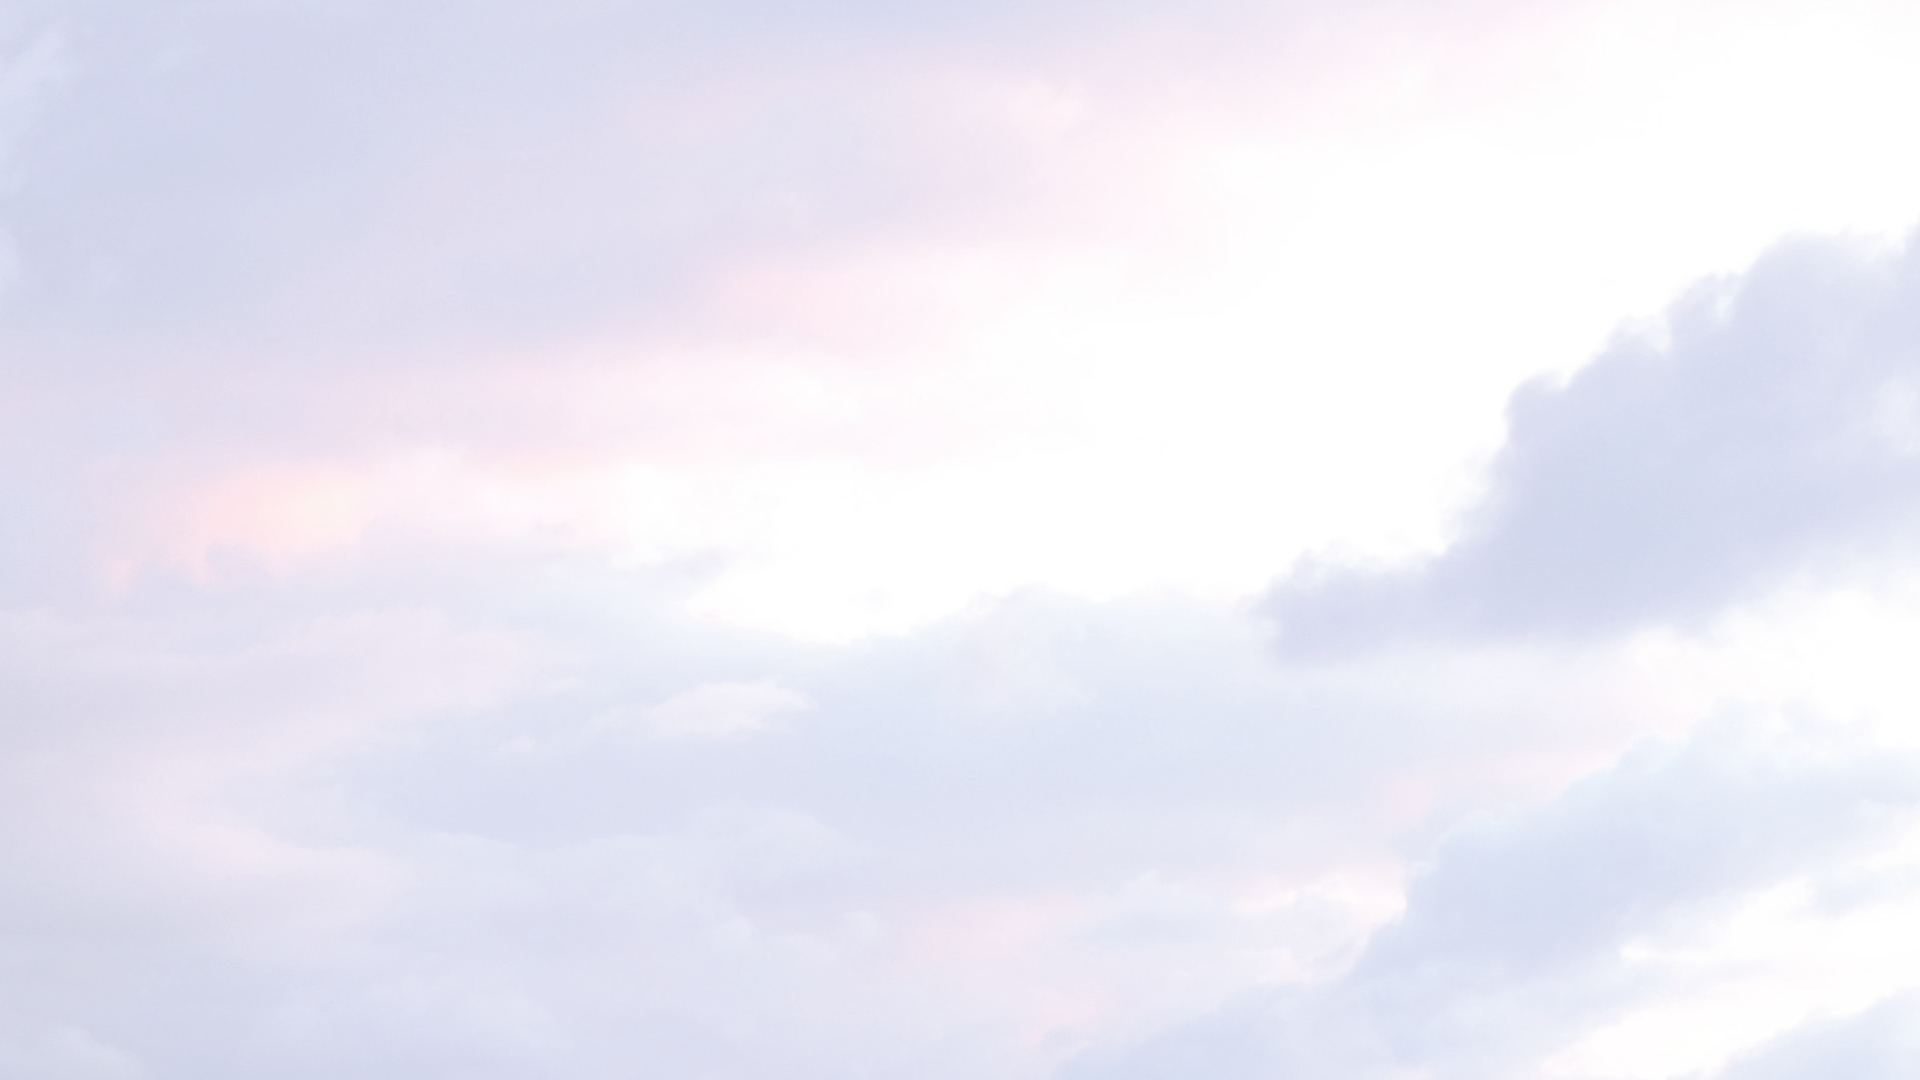
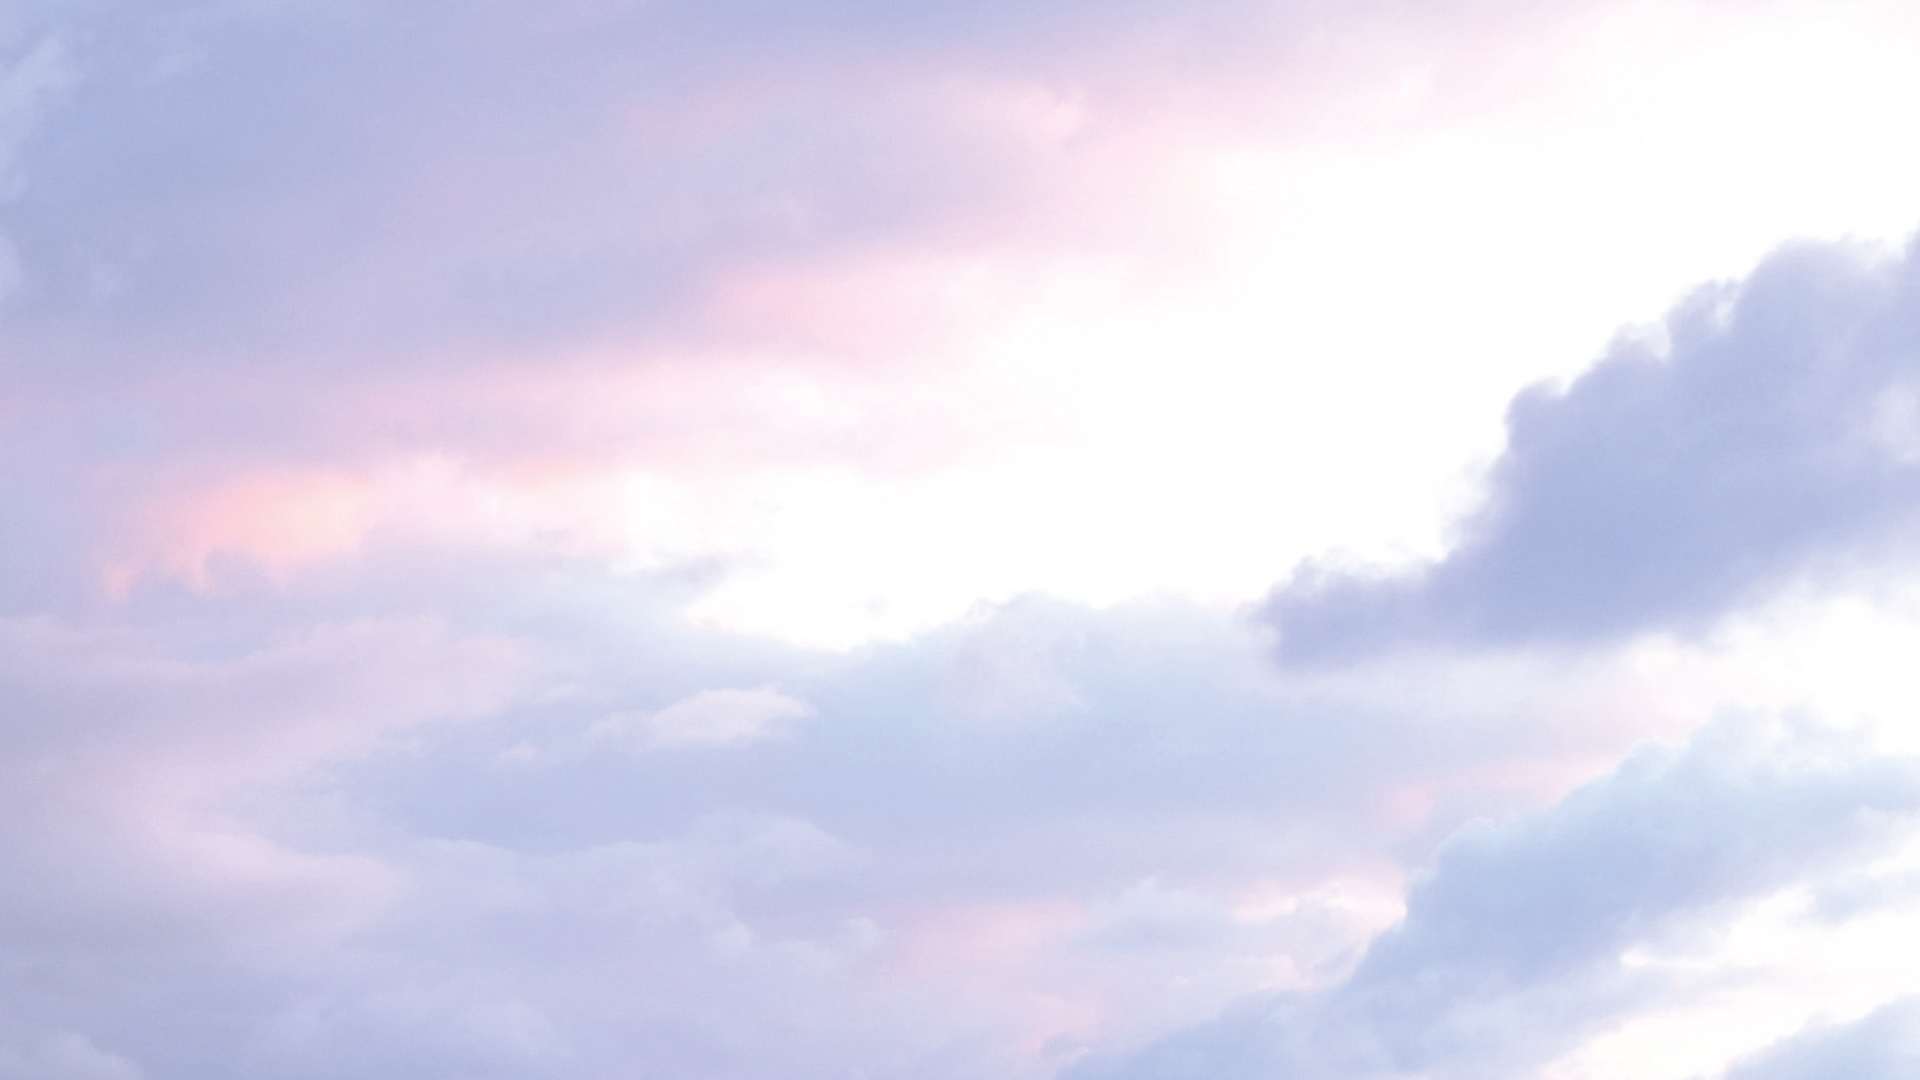
feat: make all pages' background responsive

diff --git a/assets/css/main.css b/assets/css/main.css
@@ -40,19 +40,19 @@
 }
 
 .fond_clair_logo_1920_1080 {
-    height: 27.75rem;
-    background-image: url("/assets/img/fond_clair_logo_2218_1080.jpg");   /* Emplacement de l'image */ 
-    background-size: contain; 
-    background-repeat: round;
-    overflow: hidden;
+  background: url("/assets/img/fond_clair_logo_2218_1080.jpg") no-repeat top left fixed;
+  -webkit-background-size: cover;
+  -moz-background-size: cover;
+  -o-background-size: cover;
+  background-size: cover;
 }
 
 .fond_clair_pages_suivantes_1920_1080 {
-    height: 27.75rem;
-    background-image: url("/assets/img/fond_clair_pages_suivantes_1920_1080.jpg");   /* Emplacement de l'image */ 
-    background-size: contain; 
-    background-repeat: round;
-    overflow: hidden;
+  background: url("/assets/img/fond_clair_pages_suivantes_1920_1080.jpg") no-repeat top left fixed;
+  -webkit-background-size: cover;
+  -moz-background-size: cover;
+  -o-background-size: cover;
+  background-size: cover;
 }
 
 .bg-dark { background-color: #514ea1 !important; }

diff --git a/enseignants/index.html b/enseignants/index.html
@@ -44,10 +44,9 @@
 
 </style>
 </head>
-<body>
+<body class="fond_clair_logo_1920_1080">
 <div id="wrapper">
  <div class="fixed-top">
-  <div class="fond_clair_logo_1920_1080">  
   
     <!--  début du menu  -->
   
@@ -268,7 +267,6 @@ Formée au RYE (Recherche Yoga dans l’éducation), elle anime aussi des atelie
         </div>     <!--  conteneur jours  9 colonnes droites --> 
       </div>     <!--  row -->
     </div>     <!--  FIN conteneur COURS  -->
-  </div>       <!--  image de fond -->  
     
   <footer class="site-footer h-card">
     <data class="u-url" href="/"></data>

diff --git a/stages/index.html b/stages/index.html
@@ -38,10 +38,9 @@
 }   
   </style>
 </head> 
-<body>
+<body class="fond_clair_pages_suivantes_1920_1080">
 <div id="wrapper">
  <div class="fixed-top">
-  <div class="fond_clair_pages_suivantes_1920_1080">
   
     <!--  début du menu  -->
   
@@ -470,7 +469,6 @@
         </div>   <!--  Col 11 colonnes  -->
       </div>     <!--  Row stages -->
     </div>     <!--  FIN conteneur-fluid  -->
-  </div>     <!--  image de fond -->
     
   <footer class="site-footer h-card">
     <data class="u-url" href="/"></data>

diff --git a/cours/contenu.html b/cours/contenu.html
@@ -41,10 +41,9 @@
 }   
   </style>
 </head> 
-<body>
+<body class="fond_clair_logo_1920_1080">
 <div id="wrapper">
  <div class="fixed-top">
-  <div class="fond_clair_logo_1920_1080">  
   
     <!--  début du menu  -->
   
@@ -328,7 +327,6 @@
         </div>     <!--  conteneur jours  9 colonnes droites --> 
       </div>     <!--  row -->
     </div>     <!--  FIN conteneur COURS  -->
-  </div>       <!--  image de fond -->  
     
   <footer class="site-footer h-card">
     <data class="u-url" href="/"></data>

diff --git a/autres/index.html b/autres/index.html
@@ -44,10 +44,9 @@
 </style>
 
 </head>
-<body>
+<body class="fond_clair_logo_1920_1080">
 <div id="wrapper">
  <div class="fixed-top">
-  <div class="fond_clair_logo_1920_1080">  
   
     <!--  début du menu  -->
   
@@ -1380,7 +1379,6 @@
         </div>     <!--  conteneur jours  9 colonnes droites --> 
       </div>     <!--  row -->
     </div>     <!--  FIN conteneur COURS  -->
-  </div>       <!--  image de fond -->  
     
   <footer class="site-footer h-card">
     <data class="u-url" href="/"></data>

diff --git a/autres/ordre_auteurs.html b/autres/ordre_auteurs.html
@@ -44,10 +44,9 @@
 </style>
 
 </head>
-<body>
+<body class="fond_clair_logo_1920_1080">
 <div id="wrapper">
  <div class="fixed-top">
-  <div class="fond_clair_logo_1920_1080">  
   
     <!--  début du menu  -->
   
@@ -1434,7 +1433,6 @@
         </div>     <!--  conteneur jours  9 colonnes droites --> 
       </div>     <!--  row -->
     </div>     <!--  FIN conteneur COURS  -->
-  </div>       <!--  image de fond -->  
     
   <footer class="site-footer h-card">
     <data class="u-url" href="/"></data>

diff --git a/cours/plans_acces_grenoble.html b/cours/plans_acces_grenoble.html
@@ -33,10 +33,9 @@
 }
 </style>
 </head>
-<body>
+<body class="fond_clair_logo_1920_1080">
 <div id="wrapper">
  <div class="fixed-top">
-  <div class="fond_clair_logo_1920_1080">  
   
     <!--  début du menu  -->
   
@@ -115,7 +114,6 @@
         </div>     <!--  conteneur jours  9 colonnes droites --> 
       </div>     <!--  row -->
     </div>     <!--  FIN conteneur COURS  -->
-  </div>       <!--  image de fond -->  
     
   <footer class="site-footer h-card">
     <data class="u-url" href="/"></data>

diff --git a/contacts/index.html b/contacts/index.html
@@ -60,10 +60,9 @@
 
 </style>
 </head>
-<body>
+<body class="fond_clair_logo_1920_1080">
 <div id="wrapper">
  <div class="fixed-top">
-  <div class="fond_clair_logo_1920_1080">  
   
     <!--  début du menu  -->
   
@@ -153,7 +152,6 @@
         </div>     <!--  conteneur jours  9 colonnes droites --> 
       </div>     <!--  row -->
     </div>     <!--  FIN conteneur COURS  -->
-  </div>       <!--  image de fond -->  
     
   <footer class="site-footer h-card">
     <data class="u-url" href="/"></data>

diff --git a/cours/cours_apresmidi_soirees.html b/cours/cours_apresmidi_soirees.html
@@ -38,10 +38,9 @@
    
   </style>
 </head> 
-<body>
+<body class="fond_clair_logo_1920_1080">
 <div id="wrapper">
  <div class="fixed-top">
-  <div class="fond_clair_logo_1920_1080">
   
     <!--  début du menu  -->
   
@@ -289,7 +288,6 @@
         </div>     <!--  conteneur jours  9 colonnes droites --> 
       </div>     <!--  row -->
     </div>     <!--  FIN conteneur COURS  -->
-  </div>     <!--  image de fond -->
     
   <footer class="site-footer h-card">
     <data class="u-url" href="/"></data>

diff --git a/cours/dates_cours_essai.html b/cours/dates_cours_essai.html
@@ -38,10 +38,9 @@
    
   </style>
 </head> 
-<body>
+<body class="fond_clair_logo_1920_1080">
 <div id="wrapper">
  <div class="fixed-top">
-  <div class="fond_clair_logo_1920_1080">
   
     <!--  début du menu  -->
   
@@ -259,7 +258,6 @@
         </div>     <!--  conteneur jours  9 colonnes droites --> 
       </div>     <!--  row -->
     </div>     <!--  FIN conteneur fluid  -->
-  </div>     <!--  image de fond -->
     
   <footer class="site-footer h-card">
     <data class="u-url" href="/"></data>

diff --git a/cours/dates_meditation.html b/cours/dates_meditation.html
@@ -38,10 +38,9 @@
    
   </style>
 </head> 
-<body>
+<body class="fond_clair_logo_1920_1080">
 <div id="wrapper">
  <div class="fixed-top">
-  <div class="fond_clair_logo_1920_1080">
   
     <!--  début du menu  -->
   
@@ -181,7 +180,6 @@
         </div>     <!--  conteneur jours  9 colonnes droites --> 
       </div>     <!--  row -->
     </div>     <!--  FIN conteneur COURS  -->
-  </div>     <!--  image de fond -->
     
   <footer class="site-footer h-card">
     <data class="u-url" href="/"></data>

diff --git a/cours/dates_vacances.html b/cours/dates_vacances.html
@@ -38,10 +38,9 @@
    
   </style>
 </head> 
-<body>
+<body class="fond_clair_logo_1920_1080">
 <div id="wrapper">
  <div class="fixed-top">
-  <div class="fond_clair_logo_1920_1080">
   
     <!--  début du menu  -->
   
@@ -175,7 +174,6 @@
         </div>     <!--  conteneur jours  9 colonnes droites --> 
       </div>     <!--  row -->
     </div>     <!--  FIN conteneur COURS  -->
-  </div>     <!--  image de fond -->
     
   <footer class="site-footer h-card">
     <data class="u-url" href="/"></data>
